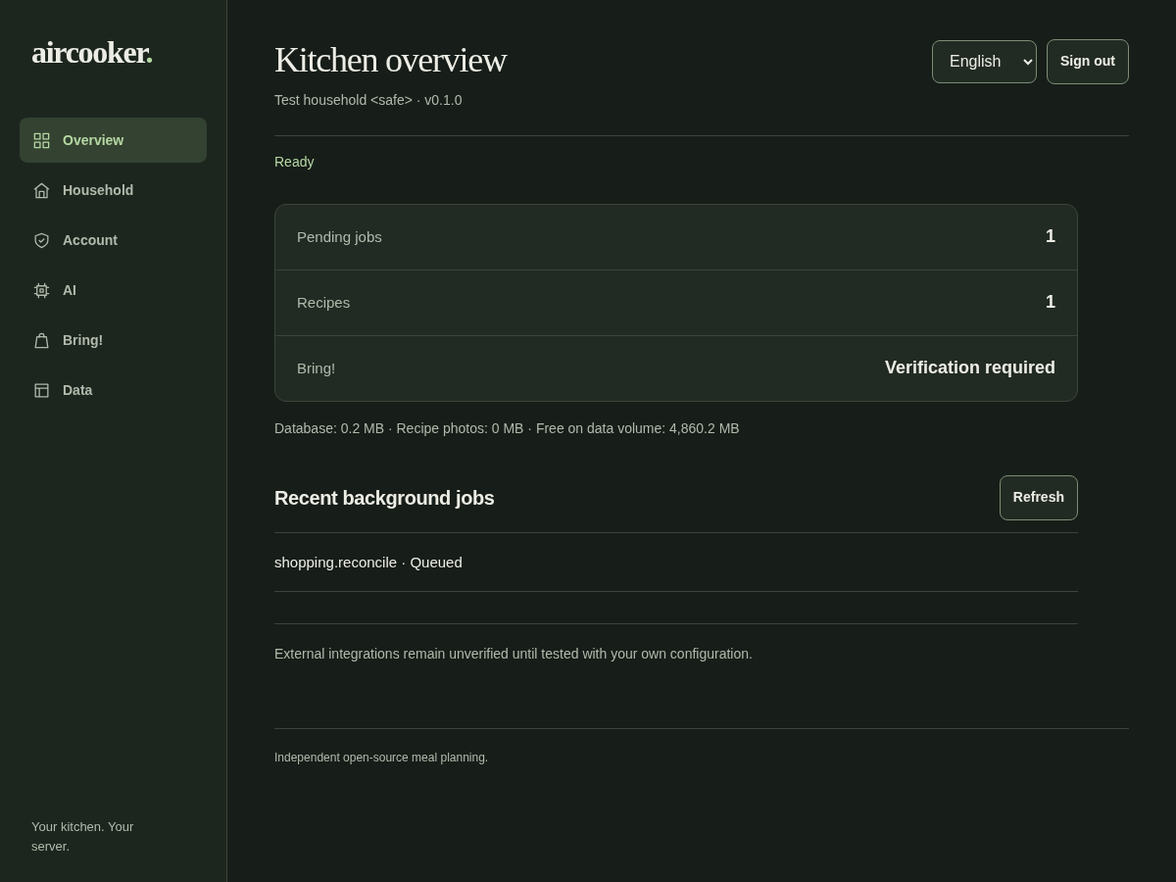
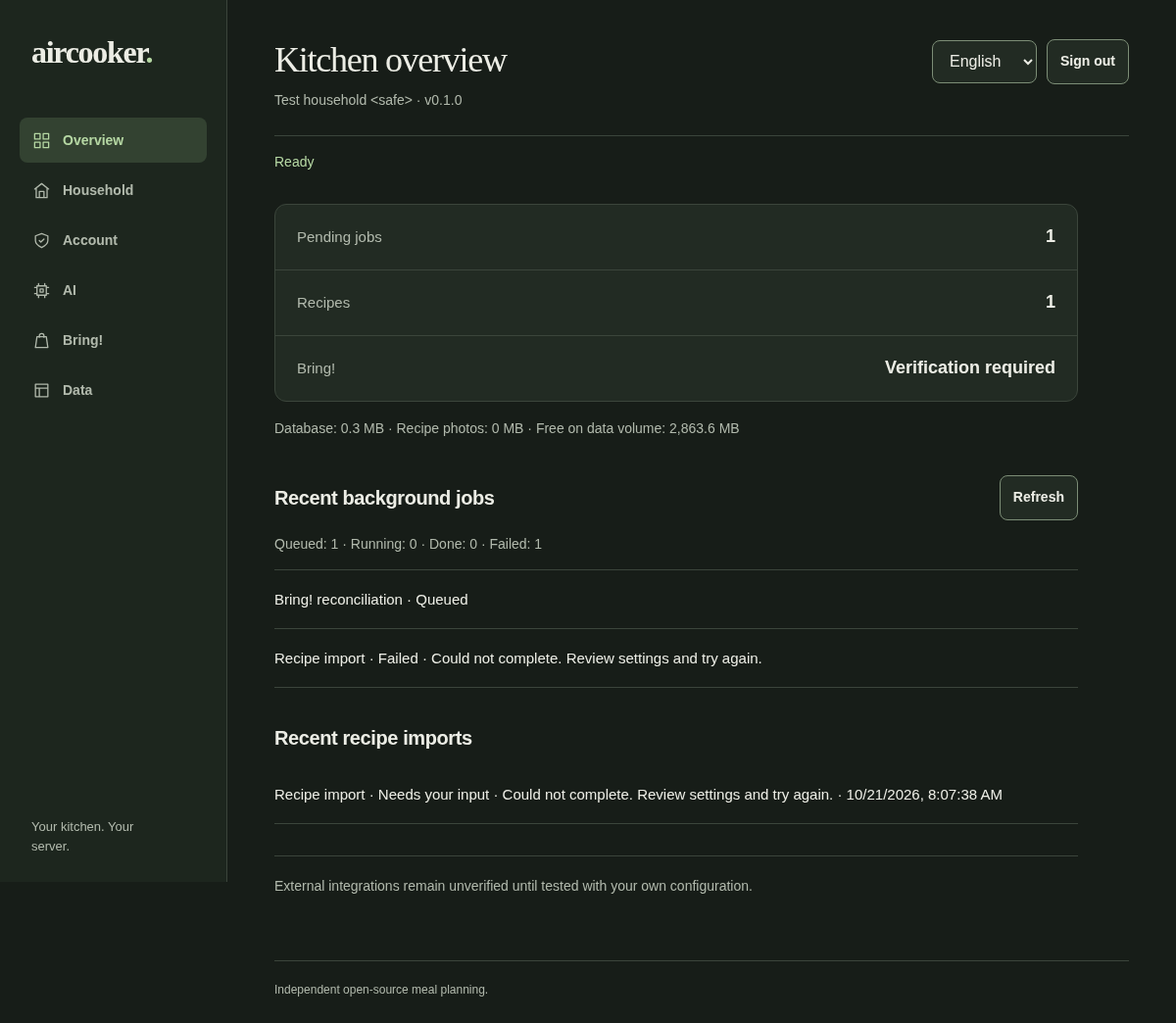
Show localised queue and import diagnostics in the administration overview

diff --git a/src/aircooker/web/index.html b/src/aircooker/web/index.html
@@ -11,6 +11,6 @@
 <header class="page-head"><div><h1 id="page-title" tabindex="-1" data-i18n="title"></h1><p id="identity" class="muted"></p></div><div class="header-actions"><label class="sr-only" for="language" data-i18n="language">Language</label><select id="language"><option value="en">English</option><option value="de">Deutsch</option></select><button id="logout" class="secondary" type="button" data-i18n="logout" hidden></button></div></header>
 <p id="status" role="status" aria-live="polite"></p>
 <section id="authentication" class="authentication"><h2 data-i18n="connect"></h2><p class="muted" data-i18n="login_hint"></p><form id="login"><label><span data-i18n="username"></span><input name="username" type="text" autocomplete="username" required maxlength="100"></label><label><span data-i18n="password"></span><input name="password" type="password" autocomplete="current-password" required maxlength="1024"></label><div id="setup-fields" hidden><label><span data-i18n="token"></span><input name="token" type="text" autocomplete="off"></label><label><span data-i18n="household"></span><input name="name" type="text" value="My kitchen" maxlength="100"></label><label><span data-i18n="timezone"></span><input name="timezone" type="text" value="Europe/Zurich"></label></div><button type="submit" data-i18n="continue"></button></form></section>
-<div id="dashboard" hidden><section id="page-overview" class="console-page overview" data-page="overview"><div id="metrics" class="metrics"></div><p id="storage" class="muted"></p><div class="section-head"><h2 data-i18n="jobs"></h2><button id="reload" type="button" class="secondary" data-i18n="refresh"></button></div><div id="jobs"></div><p class="integration-note muted" data-i18n="limitations"></p></section><section id="page-household" class="console-page" data-page="household" hidden><h2 data-i18n="household_settings"></h2><form id="household-form"><label><span data-i18n="household"></span><input name="name" type="text" required maxlength="100"></label><label><span data-i18n="timezone"></span><input name="timezone" type="text" required placeholder="Europe/Zurich"></label><label><span data-i18n="default_language"></span><select name="language"><option value="en">English</option><option value="de">Deutsch</option></select></label><button type="submit" data-i18n="save"></button></form></section><section id="page-security" class="console-page" data-page="security" hidden><h2 data-i18n="security"></h2><h3 data-i18n="sessions"></h3><div id="sessions"></div><form id="password-form"><label><span data-i18n="current_password"></span><input name="current_password" type="password" autocomplete="current-password" required maxlength="1024"></label><label><span data-i18n="new_password"></span><input name="new_password" type="password" autocomplete="new-password" required minlength="12" maxlength="1024"></label><p class="muted" data-i18n="password_hint"></p><button type="submit" data-i18n="change_password"></button></form></section><section id="page-ai" class="console-page" data-page="ai" hidden><h2 data-i18n="ai_settings"></h2><p class="muted" data-i18n="ai_disclosure"></p><form id="ai-form"><label class="check"><input type="checkbox" name="enabled" ><span data-i18n="ai_enable"></span></label><label><span data-i18n="provider"></span><select name="provider" data-ai-option><option value="openai">OpenAI</option><option value="openai-compatible">OpenAI-compatible</option><option value="anthropic">Anthropic</option><option value="ollama">Ollama</option><option value="openwebui">OpenWebUI</option></select></label><label><span data-i18n="base_url"></span><input name="base_url" type="url" value="https://api.openai.com/v1" required maxlength="2048" data-ai-option></label><label><span data-i18n="model"></span><input name="model" type="text" required maxlength="200" data-ai-option></label><label><span data-i18n="api_key"></span><input name="api_key" type="password" autocomplete="off" maxlength="8192" data-ai-option></label><p id="ai-key-status" class="muted"></p><p class="muted" data-i18n="key_hint"></p><label class="check"><input type="checkbox" name="clear_key" data-ai-option><span data-i18n="clear_key"></span></label><label><span data-i18n="timeout"></span><input name="timeout" type="number" value="30" required min="1" max="120" data-ai-option></label><label><span data-i18n="content_limit"></span><input name="max_content" type="number" value="50000" required min="100" max="100000" data-ai-option></label><label><span data-i18n="request_limit"></span><input name="requests_per_hour" type="number" value="20" required min="1" max="1000" data-ai-option></label><label class="check"><input type="checkbox" name="structured_output" data-ai-option><span data-i18n="structured"></span></label><label class="check"><input type="checkbox" name="allow_local_http" data-ai-option><span data-i18n="local_http"></span></label><button type="submit" data-i18n="save"></button></form><p class="muted" data-i18n="ai_test_hint"></p><button type="button" id="ai-test" class="secondary" data-i18n="ai_test"></button></section><section id="page-bring" class="console-page" data-page="bring" hidden><h2 data-i18n="bring_settings"></h2><p class="muted" data-i18n="bring_warning"></p><p id="bring-state" role="status"></p><form id="bring-form"><label><span data-i18n="bring_email"></span><input name="email" type="email" required autocomplete="username" maxlength="254"></label><label><span data-i18n="bring_password"></span><input name="password" type="password" required autocomplete="current-password" maxlength="1024"></label><button type="submit" data-i18n="bring_save"></button></form><div class="actions"><button type="button" id="bring-test" class="secondary" data-i18n="bring_test"></button></div><label><span data-i18n="bring_list"></span><select id="bring-list"></select></label><div class="actions"><button type="button" id="bring-select" disabled data-i18n="bring_select"></button><button type="button" id="bring-retry" class="secondary" data-i18n="bring_retry"></button><button type="button" id="bring-disconnect" class="secondary" data-i18n="disconnect"></button></div></section><section id="page-data" class="console-page" data-page="data" hidden><h2 data-i18n="data_management"></h2><p class="muted" data-i18n="import_hint"></p><button id="export" type="button" class="secondary" data-i18n="export"></button><form id="import-form"><label><span data-i18n="archive_file"></span><input id="import-file" type="file" accept=".json,.zip,application/json,application/zip" required></label><button type="submit" data-i18n="import_data"></button></form></section></div>
+<div id="dashboard" hidden><section id="page-overview" class="console-page overview" data-page="overview"><div id="metrics" class="metrics"></div><p id="storage" class="muted"></p><div class="section-head"><h2 data-i18n="jobs"></h2><button id="reload" type="button" class="secondary" data-i18n="refresh"></button></div><p id="queue-counts" class="muted"></p><div id="jobs"></div><div class="section-head"><h2 data-i18n="recent_imports"></h2></div><div id="recent-imports"></div><p class="integration-note muted" data-i18n="limitations"></p></section><section id="page-household" class="console-page" data-page="household" hidden><h2 data-i18n="household_settings"></h2><form id="household-form"><label><span data-i18n="household"></span><input name="name" type="text" required maxlength="100"></label><label><span data-i18n="timezone"></span><input name="timezone" type="text" required placeholder="Europe/Zurich"></label><label><span data-i18n="default_language"></span><select name="language"><option value="en">English</option><option value="de">Deutsch</option></select></label><button type="submit" data-i18n="save"></button></form></section><section id="page-security" class="console-page" data-page="security" hidden><h2 data-i18n="security"></h2><h3 data-i18n="sessions"></h3><div id="sessions"></div><form id="password-form"><label><span data-i18n="current_password"></span><input name="current_password" type="password" autocomplete="current-password" required maxlength="1024"></label><label><span data-i18n="new_password"></span><input name="new_password" type="password" autocomplete="new-password" required minlength="12" maxlength="1024"></label><p class="muted" data-i18n="password_hint"></p><button type="submit" data-i18n="change_password"></button></form></section><section id="page-ai" class="console-page" data-page="ai" hidden><h2 data-i18n="ai_settings"></h2><p class="muted" data-i18n="ai_disclosure"></p><form id="ai-form"><label class="check"><input type="checkbox" name="enabled" ><span data-i18n="ai_enable"></span></label><label><span data-i18n="provider"></span><select name="provider" data-ai-option><option value="openai">OpenAI</option><option value="openai-compatible">OpenAI-compatible</option><option value="anthropic">Anthropic</option><option value="ollama">Ollama</option><option value="openwebui">OpenWebUI</option></select></label><label><span data-i18n="base_url"></span><input name="base_url" type="url" value="https://api.openai.com/v1" required maxlength="2048" data-ai-option></label><label><span data-i18n="model"></span><input name="model" type="text" required maxlength="200" data-ai-option></label><label><span data-i18n="api_key"></span><input name="api_key" type="password" autocomplete="off" maxlength="8192" data-ai-option></label><p id="ai-key-status" class="muted"></p><p class="muted" data-i18n="key_hint"></p><label class="check"><input type="checkbox" name="clear_key" data-ai-option><span data-i18n="clear_key"></span></label><label><span data-i18n="timeout"></span><input name="timeout" type="number" value="30" required min="1" max="120" data-ai-option></label><label><span data-i18n="content_limit"></span><input name="max_content" type="number" value="50000" required min="100" max="100000" data-ai-option></label><label><span data-i18n="request_limit"></span><input name="requests_per_hour" type="number" value="20" required min="1" max="1000" data-ai-option></label><label class="check"><input type="checkbox" name="structured_output" data-ai-option><span data-i18n="structured"></span></label><label class="check"><input type="checkbox" name="allow_local_http" data-ai-option><span data-i18n="local_http"></span></label><button type="submit" data-i18n="save"></button></form><p class="muted" data-i18n="ai_test_hint"></p><button type="button" id="ai-test" class="secondary" data-i18n="ai_test"></button></section><section id="page-bring" class="console-page" data-page="bring" hidden><h2 data-i18n="bring_settings"></h2><p class="muted" data-i18n="bring_warning"></p><p id="bring-state" role="status"></p><form id="bring-form"><label><span data-i18n="bring_email"></span><input name="email" type="email" required autocomplete="username" maxlength="254"></label><label><span data-i18n="bring_password"></span><input name="password" type="password" required autocomplete="current-password" maxlength="1024"></label><button type="submit" data-i18n="bring_save"></button></form><div class="actions"><button type="button" id="bring-test" class="secondary" data-i18n="bring_test"></button></div><label><span data-i18n="bring_list"></span><select id="bring-list"></select></label><div class="actions"><button type="button" id="bring-select" disabled data-i18n="bring_select"></button><button type="button" id="bring-retry" class="secondary" data-i18n="bring_retry"></button><button type="button" id="bring-disconnect" class="secondary" data-i18n="disconnect"></button></div></section><section id="page-data" class="console-page" data-page="data" hidden><h2 data-i18n="data_management"></h2><p class="muted" data-i18n="import_hint"></p><button id="export" type="button" class="secondary" data-i18n="export"></button><form id="import-form"><label><span data-i18n="archive_file"></span><input id="import-file" type="file" accept=".json,.zip,application/json,application/zip" required></label><button type="submit" data-i18n="import_data"></button></form></section></div>
 <footer data-i18n="console_footer">Independent open-source meal planning.</footer>
 </main></div></body></html>

diff --git a/src/aircooker/web/console.js b/src/aircooker/web/console.js
@@ -4,8 +4,24 @@ const additions={"en": {"household_settings": "Household settings", "security": 
 for(const language of ["en","de"]) Object.assign(words[language],additions[language]);
 Object.assign(words.en, {title:"Household console",nav_overview:"Overview",nav_household:"Household",nav_security:"Account",nav_ai:"AI",nav_bring:"Bring!",nav_data:"Data",sidebar_note:"Your kitchen. Your server.",login_hint:"Connect to your household to manage this server and its integrations.",console_footer:"Independent open-source meal planning.",skip_content:"Skip to content",language:"Language"});
 Object.assign(words.de, {title:"Haushaltsverwaltung",nav_overview:"Übersicht",nav_household:"Haushalt",nav_security:"Konto",nav_ai:"KI",nav_bring:"Bring!",nav_data:"Daten",sidebar_note:"Deine Küche. Dein Server.",login_hint:"Melde dich bei deinem Haushalt an, um den Server und seine Integrationen zu verwalten.",console_footer:"Unabhängige Open-Source-Essensplanung.",skip_content:"Zum Inhalt",language:"Sprache"});
+Object.assign(words.en, {recent_imports:"Recent recipe imports",empty_imports:"No recipe imports yet.",kind_import:"Recipe import",kind_shopping:"Bring! reconciliation",kind_unknown:"Background task",job_preview:"Ready to review",job_needs_input:"Needs your input",job_confirmed:"Saved",job_cancelled:"Cancelled",job_unknown:"Status unavailable"});
+Object.assign(words.de, {recent_imports:"Letzte Rezeptimporte",empty_imports:"Noch keine Rezeptimporte.",kind_import:"Rezeptimport",kind_shopping:"Bring!-Abgleich",kind_unknown:"Hintergrundauftrag",job_preview:"Bereit zur Prüfung",job_needs_input:"Deine Eingabe wird benötigt",job_confirmed:"Gespeichert",job_cancelled:"Abgebrochen",job_unknown:"Status nicht verfügbar"});
+Object.assign(words.en, {diagnostic_code:"Diagnostic code: ",diagnostic_generic:"Could not complete. Review settings and try again.",diagnostic_rate_limit:"Request limit reached. Try again later.",diagnostic_auth:"Check the configured provider credentials.",diagnostic_bring_gate:"Verify the dedicated Bring! list before enabling automatic changes.",diagnostic_bring_list:"Select an available Bring! list in settings.",diagnostic_manual:"Paste the recipe text or enter it manually.",diagnostic_network:"Source could not be reached. Try again or paste its text.",diagnostic_invalid:"The source or provider did not return a valid recipe.",diagnostic_consent:"Allow this import to send content to the configured AI provider.",diagnostic_ai_config:"Configure an AI provider before using extraction."});
+Object.assign(words.de, {diagnostic_code:"Diagnosecode: ",diagnostic_generic:"Nicht abgeschlossen. Prüfe die Einstellungen und versuche es erneut.",diagnostic_rate_limit:"Anfragelimit erreicht. Versuche es später erneut.",diagnostic_auth:"Prüfe die Zugangsdaten des konfigurierten Anbieters.",diagnostic_bring_gate:"Prüfe die eigene Bring!-Testliste, bevor automatische Änderungen aktiviert werden.",diagnostic_bring_list:"Wähle eine verfügbare Bring!-Liste in den Einstellungen.",diagnostic_manual:"Füge den Rezepttext ein oder gib das Rezept manuell ein.",diagnostic_network:"Quelle nicht erreichbar. Versuche es erneut oder füge den Text ein.",diagnostic_invalid:"Quelle oder Anbieter hat kein gültiges Rezept geliefert.",diagnostic_consent:"Erlaube für diesen Import die Übertragung an den konfigurierten KI-Anbieter.",diagnostic_ai_config:"Konfiguriere vor der Extraktion einen KI-Anbieter."});
+function diagnosticMessage(code){
+  if(["ai_rate_limited","ai_request_limit"].includes(code))return words[locale].diagnostic_rate_limit;
+  if(code==="ai_authentication_failed")return words[locale].diagnostic_auth;
+  if(code==="bring_capability_unverified")return words[locale].diagnostic_bring_gate;
+  if(["bring_list_not_selected","bring_list_not_found"].includes(code))return words[locale].diagnostic_bring_list;
+  if(code==="ai_content_disclosure_consent_required")return words[locale].diagnostic_consent;
+  if(code==="ai_not_configured")return words[locale].diagnostic_ai_config;
+  if(["structured_recipe_not_found_use_manual_entry","source_unavailable_use_supplied_text","source_address_forbidden","source_url_forbidden"].includes(code))return words[locale].diagnostic_manual;
+  if(["source_network_failed","source_dns_failed","source_timeout"].includes(code))return words[locale].diagnostic_network;
+  if(["ai_invalid_response","ai_schema_validation_failed","invalid_extracted_recipe","ai_incomplete_recipe_review_manually"].includes(code))return words[locale].diagnostic_invalid;
+  return words[locale].diagnostic_generic;
+}
 const $=id=>document.getElementById(id);
-let locale="en", configured=false, storageStatus=null, currentPage="overview";
+let locale="en", configured=false, storageStatus=null, diagnosticStatus=null, currentPage="overview";
 const pageTitles={overview:"overview",household:"household_settings",security:"security",ai:"ai_settings",bring:"bring_settings",data:"data_management"};
 function selectPage(key, focus=true){
   if(!Object.hasOwn(pageTitles,key))return;
@@ -26,7 +42,7 @@ function translate(){
   document.querySelectorAll("[data-i18n]").forEach(e=>e.textContent=words[locale][e.dataset.i18n]);
   for(const id of ["status","ai-key-status"]){const e=$(id);if(e.dataset.errorCode)e.textContent+=" · "+e.dataset.errorCode;}
   if($("bring-state").dataset.listId)$("bring-state").textContent+=" · "+$("bring-state").dataset.listId;
-  renderStorage();translateSessions();translateJobs();
+  renderStorage();renderQueueCounts();translateSessions();translateJobs();
 }
 function message(key){$("status").dataset.i18n=key;delete $("status").dataset.errorCode;$("status").textContent=words[locale][key]||key;}
 function showError(code){$("status").dataset.i18n="error";$("status").dataset.errorCode=code;$("status").textContent=words[locale].error+code;}
@@ -41,7 +57,16 @@ function translateSessions(){
     row.querySelector("span").textContent=(d.current==="true"?words[locale].current_session+" · ":"")+d.device+" · "+words[locale][d.revoked==="true"?"revoked":"active"]+" · "+words[locale].expires+" "+new Date(Number(d.expires)*1000).toLocaleString(locale);
   });
 }
-function translateJobs(){document.querySelectorAll(".job").forEach(row=>row.textContent=row.dataset.kind+" · "+(words[locale]["job_"+row.dataset.state]||row.dataset.state)+(row.dataset.error?" · "+row.dataset.error:""));}
+function renderQueueCounts(){
+  if(!diagnosticStatus)return;
+  const numbers=new Intl.NumberFormat(locale);
+  $("queue-counts").textContent=["queued","running","done","failed"].map(state=>words[locale]["job_"+state]+": "+numbers.format(diagnosticStatus.job_counts[state])).join(" · ");
+}
+function translateJobs(){document.querySelectorAll(".job").forEach(row=>{
+  const kind=({"recipe.import":"kind_import","shopping.reconcile":"kind_shopping"})[row.dataset.kind]||"kind_unknown";
+  row.textContent=words[locale][kind]+" · "+(words[locale]["job_"+row.dataset.state]||words[locale].job_unknown)+(row.dataset.error?" · "+diagnosticMessage(row.dataset.error):"")+(row.dataset.created?" · "+new Date(Number(row.dataset.created)*1000).toLocaleString(locale):"");
+  row.title=row.dataset.error?words[locale].diagnostic_code+row.dataset.error:"";
+});}
 function signedOut(){
   $("dashboard").hidden=true; $("authentication").hidden=false;
   $("console-nav").hidden=true; $("logout").hidden=true;
@@ -96,8 +121,8 @@ async function refreshSessions(){
   translateSessions();
 }
 async function refresh(){
-  const [jobs,bring,info,household,ai,status]=await Promise.all([
-    request("/api/v1/admin/jobs"),request("/api/v1/integrations/bring/status"),
+  const [diagnostics,bring,info,household,ai,status]=await Promise.all([
+    request("/api/v1/admin/diagnostics"),request("/api/v1/integrations/bring/status"),
     request("/api/v1/system/info"),request("/api/v1/household"),request("/api/v1/admin/ai"),request("/api/v1/admin/status")]);
   $("identity").textContent=info.name+" · v"+info.version;
   $("authentication").hidden=true;$("dashboard").hidden=false;$("metrics").replaceChildren();
@@ -108,10 +133,15 @@ async function refresh(){
     if(key==="bring")strong.dataset.i18n=bring.state==="configured"?"configured":bring.state==="not_configured"?"disabled":"verification";
     const span=document.createElement("span");span.dataset.i18n=key;span.textContent=words[locale][key];box.append(strong,span);$("metrics").append(box);
   }
-  storageStatus=status;renderStorage();
+  storageStatus=status;renderStorage();diagnosticStatus=diagnostics;renderQueueCounts();
+  const jobs=diagnostics.recent_jobs;
   $("jobs").replaceChildren();
   for(const job of jobs){const row=document.createElement("div");row.className="job";row.dataset.kind=job.kind;row.dataset.state=job.state;row.dataset.error=job.error_code||"";row.textContent=job.kind+" · "+job.state+(job.error_code?" · "+job.error_code:"");$("jobs").append(row);}
   if(!jobs.length){$("jobs").dataset.i18n="empty";$("jobs").textContent=words[locale].empty;}else{delete $("jobs").dataset.i18n;}
+  $("recent-imports").replaceChildren();
+  delete $("recent-imports").dataset.i18n;
+  for(const item of diagnostics.recent_imports){const row=document.createElement("div");row.className="job";row.dataset.kind="recipe.import";row.dataset.state=item.state;row.dataset.error=item.error_code||"";row.dataset.created=item.created_at;$("recent-imports").append(row);}
+  if(!diagnostics.recent_imports.length){$("recent-imports").dataset.i18n="empty_imports";$("recent-imports").textContent=words[locale].empty_imports;}
   translateJobs();
   const h=$("household-form");for(const key of ["name","timezone","language"])field(h,key).value=household[key];
   const form=$("ai-form");field(form,"enabled").checked=ai.enabled;

diff --git a/scripts/browser_smoke.py b/scripts/browser_smoke.py
@@ -20,6 +20,7 @@ import uvicorn
 from playwright.sync_api import expect, sync_playwright
 
 import aircooker.app as application
+from aircooker.jobs import enqueue
 from aircooker.models import Ingredient, Recipe
 
 LIST_ID = "11111111-1111-4111-8111-111111111111"
@@ -116,6 +117,35 @@ def main():
                 login.locator('button[type="submit"]').click()
                 expect(page.locator("#dashboard")).to_be_visible(timeout=15000)
                 expect(page.locator("#status")).to_have_text("Ready")
+                expect(page.locator("#recent-imports")).to_have_text("No recipe imports yet.")
+                private_marker = "private_import_content_do_not_display"
+                with app.state.database.transaction() as db:
+                    enqueue(db, "recipe.import", "diagnostics-browser", {"text": private_marker})
+                    db.execute(
+                        "UPDATE background_job SET state='failed',error_code=? WHERE dedupe_key=?",
+                        (private_marker, "diagnostics-browser"),
+                    )
+                    db.execute(
+                        "INSERT INTO import_draft VALUES (?,?,?,'needs_input',NULL,'[]',?,NULL,?)",
+                        (
+                            str(uuid4()),
+                            "https://private.example",
+                            "website",
+                            private_marker,
+                            time.time(),
+                        ),
+                    )
+                page.locator("#reload").click()
+                expect(page.locator("#recent-imports .job")).to_contain_text("Needs your input")
+                expect(page.locator("#queue-counts")).to_contain_text("Failed: 1")
+                assert private_marker not in page.locator("body").inner_text()
+                assert "private.example" not in page.locator("body").inner_text()
+                page.locator("#language").select_option("de")
+                expect(page.locator("#recent-imports .job")).to_contain_text(
+                    "Deine Eingabe wird benötigt"
+                )
+                expect(page.locator("#queue-counts")).to_contain_text("Fehlgeschlagen: 1")
+                page.locator("#language").select_option("en")
                 page.locator('[data-page-link="household"]').click()
                 household = page.locator("#household-form")
                 household.locator('[name="name"]').fill("Test household <safe>")

diff --git a/docs/VALIDATION.md b/docs/VALIDATION.md
@@ -10,6 +10,14 @@ job/import projections, with no migration, worker scheduling or connector mutati
 Current Docker and remote CI checks are pending. The evidence below also retains earlier
 development runs and does not imply all listed platforms validated this newest change.
 
+GitHub run 39565110991 at e10d40d subsequently passes all five jobs: 136 tests and real
+Docker smoke on AMD64/ARM64, both dependency/secret/container security gates and Chromium
+administration workflows. Exact job IDs are in validation/github-diagnostics.json.
+The later console overview now displays bounded import/job rows and queue totals; its
+expanded local Chromium test passes EN/DE switching and proves private markers/URLs do
+not appear in the document. Genuine desktop/light/dark and German phone captures were
+regenerated and visually inspected. Later console changes await their own remote CI.
+
 | Check | Executed result | Limit |
 | --- | --- | --- |
 | Backend tests against hashed runtime dependencies | **129 passed** | One upstream Starlette TestClient/httpx deprecation warning; no failure |

diff --git a/docs/ADMINISTRATION.md b/docs/ADMINISTRATION.md
@@ -79,8 +79,11 @@ recovery backup.
 Read-only diagnostics are available through authenticated `/api/v1/admin/diagnostics`
 and the typed `/api/v1/admin/jobs` API. They expose bounded recent job/import states and
 queue totals without content, URLs or provider messages. See API.md for limits and filters.
-The console already displays recent jobs; an expanded import-history interface remains
-unfinished. These endpoints do not retry or mutate work.
+The overview displays queue totals and the 20 most recent jobs and imports, with localised
+states, dates and useful error explanations. Hovering an error row exposes its redacted
+diagnostic code; machine-readable details remain available through the API. Changing
+language updates these rows without losing form edits. These endpoints do not retry or
+mutate work. Complete audit-history browsing remains unfinished.
 
 ## Browser checks and screenshots
 

diff --git a/CHANGELOG.md b/CHANGELOG.md
@@ -2,6 +2,8 @@
 
 - Add authenticated, bounded read-only job/import diagnostics with consistent queue counts
   and explicit error-code redaction. Type and filter the existing recent-jobs endpoint.
+- Show localised queue totals and recent import states in the administration overview;
+  verify language switching and hidden private content with Chromium.
 
 - Parse supported metric/English/German ingredient quantities, fractions and ranges before
   import review; preserve uncertain text and disclose omitted/truncated entries.
